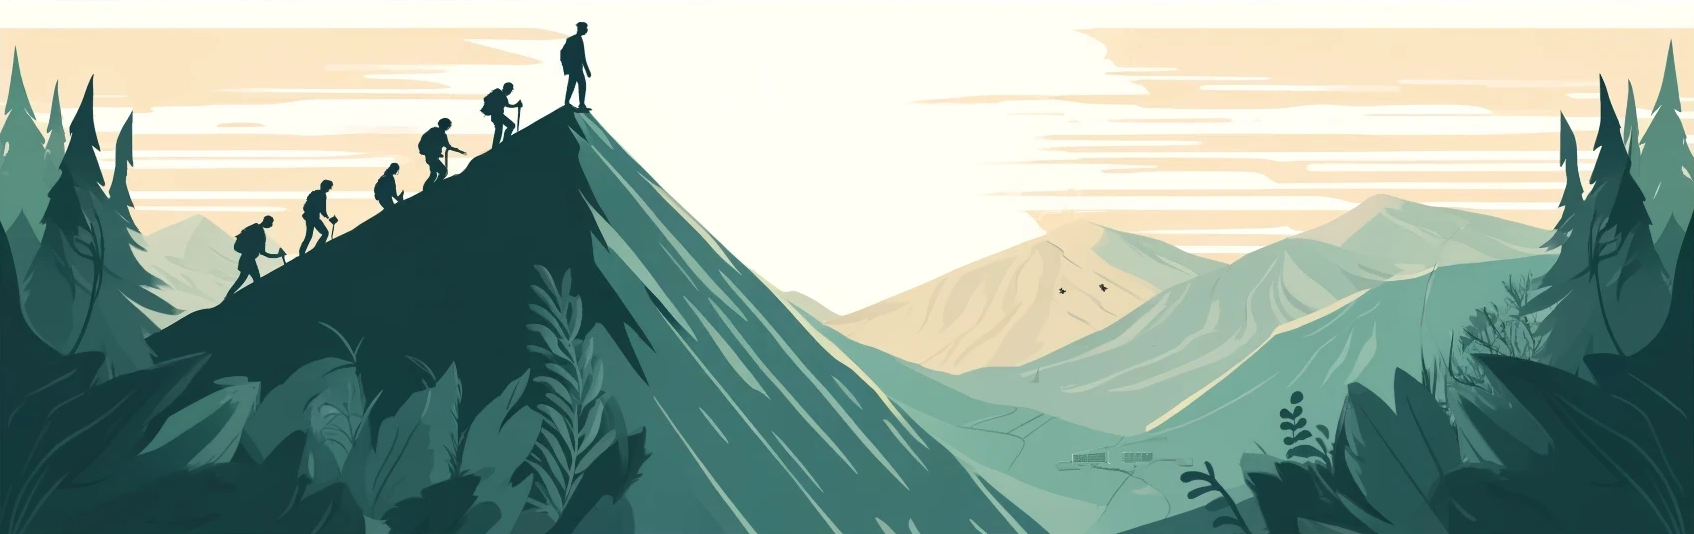
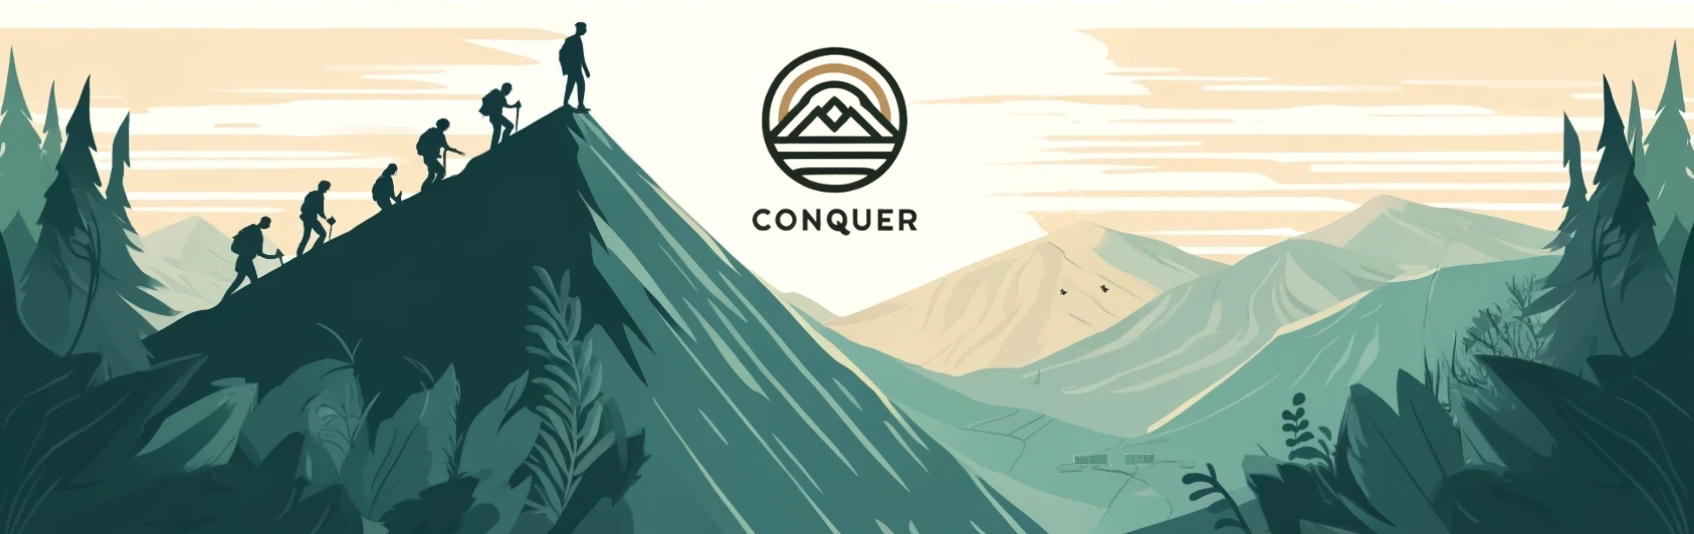
bug fixes on landing, login and signup page

diff --git a/client/src/pages/register/register.css b/client/src/pages/register/register.css
@@ -17,38 +17,42 @@
     width: 600px;
     display: flex;
     flex-direction: column;
-    justify-content: center; 
+    align-items: center; 
     gap: 20px; 
     position: relative;
 }
 
 .logo {
-    width: 150px; /* Adjust the width to make the logo larger */
-    margin: 0 auto 20px auto; /* Center the logo horizontally */
-    display: block; /* Ensure the logo is treated as a block element */
-    text-align: center; /* Center the logo horizontally */
+    width: 200px; 
+    margin-bottom: 20px;
+    position: relative;
+    top: -32px; 
+    left: 50%;
+    transform: translateX(-50%);
 }
 
 h2 {
     font-size: 40px;
-    margin-bottom: 20px; /* Add margin bottom to create space */
+    margin-bottom: 20px; 
 }
 
 form {
     display: flex;
     flex-direction: column;
-    gap: 20px; /* Adds space between form elements */
+    width: 100%; 
+    gap: 20px; 
 }
 
 input {
     padding: 10px;
     border: 2px solid #ccc;
     border-radius: 40px;
-    background-color: white; /* Ensure input background is white */
+    background-color: white; 
     text-align: center;
     font-weight: bold;
     font-size: 20px; 
     color: black; 
+    width: 100%; 
 }
 
 input[type="email"],
@@ -57,31 +61,31 @@ input[type="password"] {
     border: 2px solid black; 
     color: black; 
     font-weight: bold; 
-    background-color: white; /* Set the input background color to white */
+    background-color: white; 
 }
 
 button {
     padding: 10px;
-    background-color: #524C4C; /* Adjust button color */
-    color: white; /* Set button text color to white */
+    background-color: #524C4C; 
+    color: white; 
     border: none;
     border-radius: 40px;
     cursor: pointer;
     font-weight: bold;
-    width: 150px; /* Adjust width */
-    height: 50px; /* Adjust height */
-    font-size: 24px; /* Increase font size */
-    border: 2px solid black; /* Add black border */
-    margin: 0 auto; /* Center the button horizontally */
+    width: 150px; 
+    height: 50px; 
+    font-size: 24px; 
+    border: 2px solid black; 
+    margin: 0 auto; 
 }
 
 button:hover {
-    background-color: #3E3A3A; /* Adjust hover color */
+    background-color: #3E3A3A; 
 }
 
 p {
     margin-top: 20px;
-    font-family: 'League Spartan', sans-serif; /* Use League Spartan font */
+    font-family: 'League Spartan', sans-serif; 
     font-size: 20px;
     color: black; 
     font-weight: bold; 

diff --git a/client/src/pages/login/login.js b/client/src/pages/login/login.js
@@ -2,7 +2,7 @@ import { useNavigate } from "react-router-dom";
 import React, { useState } from 'react';
 import './login.css';
 import userLogin from '../../functions/loginHandler.js';
-import conquerLogoBgRemoved from './logo.png'; 
+import logo from '../../assets/logo.png';
 import Message from './../../components/alertMessage/alertMessage'
 
 function Login() {
@@ -20,14 +20,14 @@ function Login() {
         } else {
             try {
                 await userLogin(email, password);
-                navigate('/home');
+                navigate('/home'); // Redirect to home page after successful login
                 return;
             } catch (error) {
                 setErrorMessage(`Failed to login. Error: ${error.code}`);
                 setShowErrMsg(true);
                 setTimeout(() => {
                     setShowErrMsg(false);
-                  }, 2000);
+                }, 2000);
                 console.log(error);
             }
         }
@@ -49,7 +49,7 @@ function Login() {
         <div className="login-container">
             <div className="login-box">
                 {showErrMsg ? <Message show={showErrMsg} message={errorMessage}/> : null}
-                <img src={conquerLogoBgRemoved} alt="Conquer Logo" style={{ width: '100px', marginBottom: '20px', margin: '0 auto' }} /> {/* Use the imported logo */}
+                <img src={logo} alt="Conquer Logo" style={{ width: '100px', marginBottom: '20px', margin: '0 auto' }} /> 
                 <h2>Sign In</h2>
                 <form onSubmit={onSignInPressed}>
                     <input
@@ -66,7 +66,7 @@ function Login() {
                         onChange={handlePasswordChange}
                         required
                     />
-                    <button type="submit">JOIN</button>
+                    <button type="submit">Sign In</button>
                 </form>
                 <p>
                     Don’t have an account? <a href="/register" onClick={navigateToRegister}>Sign up.</a>

diff --git a/client/src/pages/register/register.js b/client/src/pages/register/register.js
@@ -1,7 +1,7 @@
 import React, { useState } from 'react';
 import { useNavigate } from "react-router-dom";
 import './register.css';
-import conquerLogoBgRemoved from './conquerLogoBgRemoved.png'; 
+import logo from '../../assets/logo.png';
 import userRegister from '../../functions/registerHandler.js';
 
 function Register() {
@@ -30,7 +30,7 @@ function Register() {
         e.preventDefault(); 
 
         try {
-          const login = await userRegister(username, email, password);
+          const register = await userRegister(username, email, password);
           navigate('/home'); 
         } catch (error) {
           console.error("Registration failed:", error);
@@ -40,7 +40,7 @@ function Register() {
     return (
         <div className="register-container">
             <div className="register-box">
-                <img src={conquerLogoBgRemoved} alt="Conquer Logo" className="logo" /> {/* Use the correct path for your logo */}
+            <img src={logo} alt="Conquer Logo" style={{ width: '100px', marginBottom: '20px', margin: '0 auto' }} />
                 <h2>Sign Up</h2>
                 <form onSubmit={onRegisterPressed}>
                     <input
@@ -64,7 +64,7 @@ function Register() {
                         onChange={handlePasswordChange}
                         required
                     />
-                    <button type="submit">JOIN</button>
+                    <button type="submit">Sign Up</button>
                 </form>
                 <p>
                     Have an account? <a href="/login" onClick={navigateToLogin}>Login here!</a>

diff --git a/client/src/pages/landing/landing.js b/client/src/pages/landing/landing.js
@@ -2,7 +2,6 @@ import React from 'react';
 import { useNavigate } from 'react-router-dom';
 import './landing.css';
 import banner from './banner.png';
-import logo from './logo.png';
 import communityIcon from './community.png';
 import p2pIcon from './p2p.png';
 import optimismIcon from './confidence.png';
@@ -18,7 +17,6 @@ function Landing() {
     <div className="landing">
       <div className="banner-container">
         <img src={banner} alt="Banner" className="banner" />
-        <img src={logo} alt="Logo" className="logo" />
         <div className="banner-text-box">
           <h1 className="tagline">The journey of a thousand miles begins with just one step</h1>
           <button className="ready-button" onClick={navigateToLogin}>I'm ready!</button>

diff --git a/client/src/pages/landing/landing.css b/client/src/pages/landing/landing.css
@@ -23,12 +23,12 @@ body {
 }
 
 .logo {
-  position: relative;
+  position: absolute;
   top: 25%;  /* Center vertically */
-  left: 100%; /* Center horizontally */
-  transform: translate(-50%, -100%); /* Adjust for the exact center */
+  left: 48%; /* Center horizontally */
+  transform: translate(-50%, -50%); /* Adjust for the exact center */
   max-width: 150px; /* Or whatever size you want the logo to be */
-  z-index: 100; /* To ensure the logo is above the banner image */
+  z-index: 10; /* To ensure the logo is above the banner image */
 }
 
 .banner-text-box {

diff --git a/client/src/pages/login/login.css b/client/src/pages/login/login.css
@@ -25,7 +25,7 @@
     width: 150px;
     margin-bottom: 20px;
     position: relative;
-    top: -32px; /* Adjusted to move the logo to the correct position */
+    top: -32px; 
     left: 50%;
     transform: translateX(-50%);
 }
